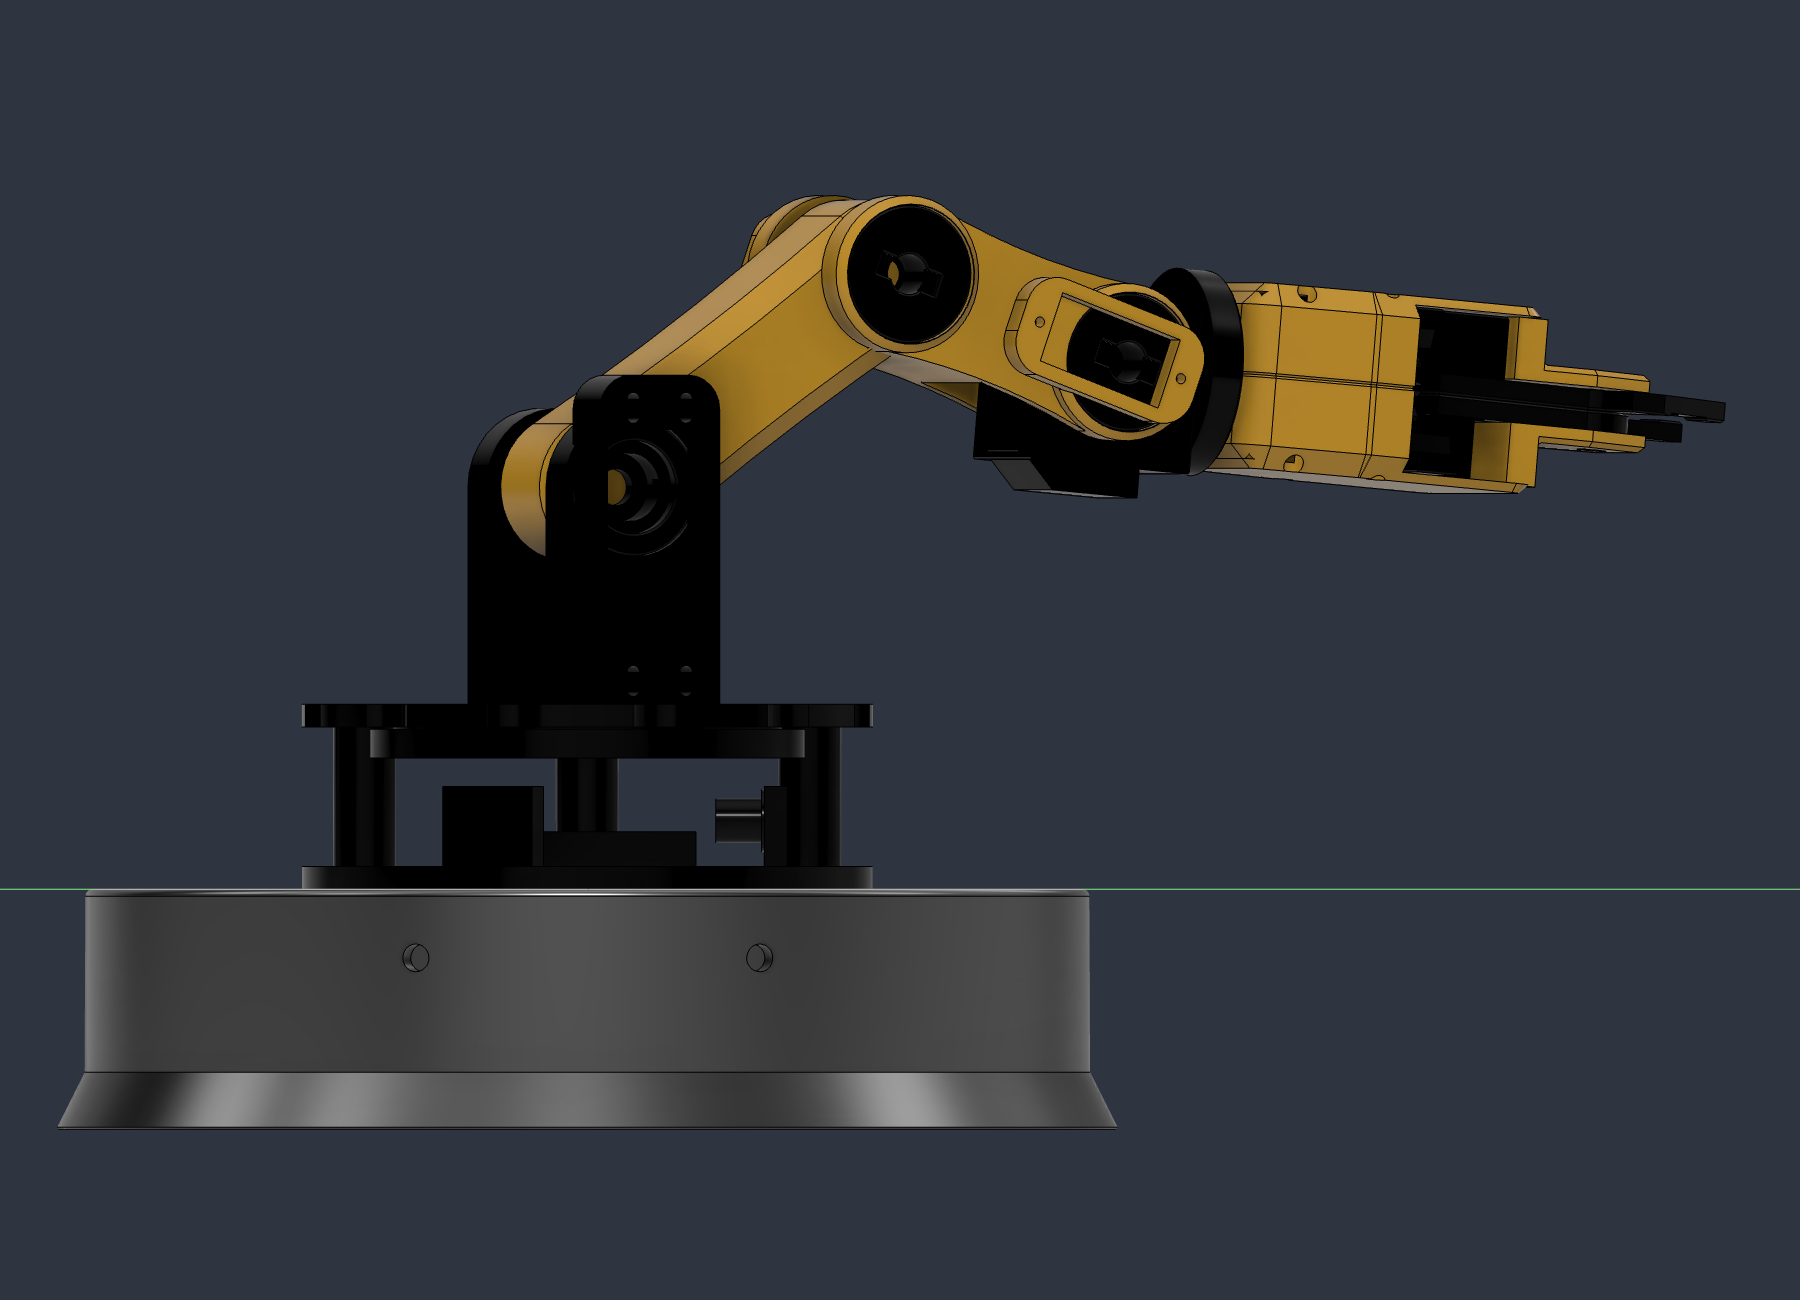
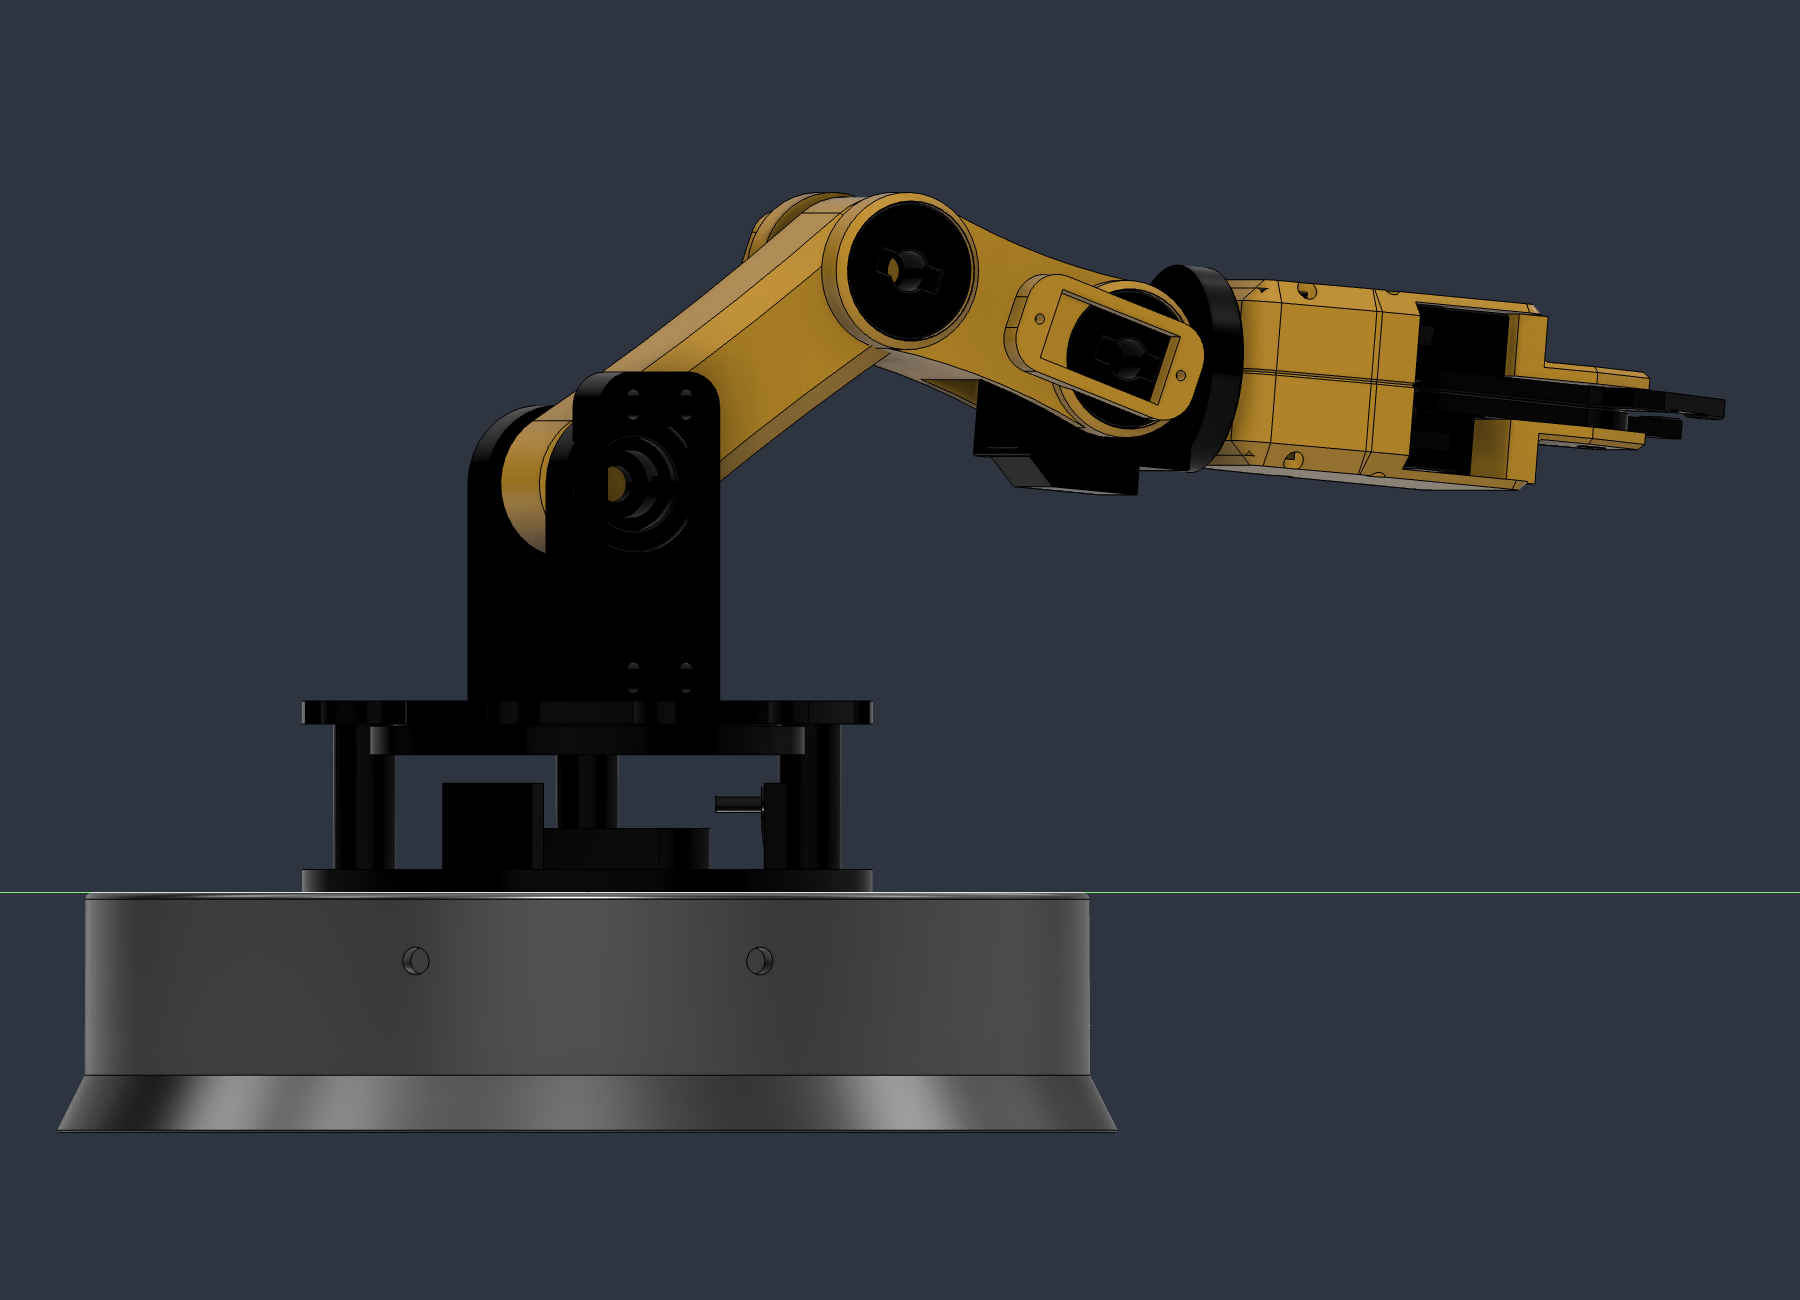
chore(robotarm): re-render the arm and J1, update the volume ledger
_check_ledger PASS: 14 parts, zero drift. The only two deltas were the two
intended changes - turntable_stator -2160.4 (the roller reliefs) and base_lid
-302.6 (the enlarged opening) - so _volumes.json is updated to match and
nothing else moved.

_preview_j1's STACK carried the rotor's z offset as the literal 70.4. It is
71.5 now that tt_axle_z moved, so a literal would have rendered the rotor
1.1 mm low, through its own retainer ring, and looked entirely plausible. All
five offsets are derived from live parameters via _dz(). PLAYBOOK, 'a copy of
another part's number with a comment saying MUST TRACK'.

Whole arm at J1 25 / J2 35 / J3 -55 / J4 15, blades 12 open: reach 229 mm from
the yaw axis, height 169 mm.

diff --git a/models/robotarm/_preview_j1.py b/models/robotarm/_preview_j1.py
@@ -42,13 +42,20 @@ import adsk.fusion
 REPO = os.path.expanduser('~/Documents/GitHub/cad-pipeline')
 LEGACY = os.path.join(REPO, 'legacy', 'exports', 'robotarm')
 
-# name, z offset to bring it into the stator's frame, explode rank
+# name, z offset to bring it into the stator's frame, explode rank.
+#
+# THE ROTOR'S OFFSET IS DERIVED, NOT TYPED. It was 70.4 here as a literal and
+# it is 71.5 now, because tt_axle_z moved 12.0 -> 13.1 when _check_j1 found the
+# rollers buried in the base plate. A literal would have rendered the rotor
+# 1.1 mm low - through its own ring - and looked entirely plausible. None is
+# a number any more: `_dz(name)` reads the live parameters. PLAYBOOK, "a copy
+# of another part's number with a comment saying MUST TRACK".
 STACK = [
-    ('base_platter', -42.0, 0),
-    ('base_lid', -3.0, 1),  # ours, built above
-    ('turntable_stator', 0.0, 2),
-    ('shoulder_bracket', 70.4, 3),
-    ('turntable_ring', 0.0, 4),
+    ('base_platter', None, 0),
+    ('base_lid', None, 1),  # ours, built above
+    ('turntable_stator', None, 2),
+    ('shoulder_bracket', None, 3),
+    ('turntable_ring', None, 4),
 ]
 EXPLODE_MM = 38.0
 
@@ -94,6 +101,26 @@ def run(_context: str):
         occ = imp.importToTarget2(imp.createSTEPImportOptions(path), root)
         occ.item(0).component.name = 'legacy_' + step.split('_v1')[0]
 
+    ups = des.userParameters
+
+    def _gv(name):
+        p = ups.itemByName(name)
+        assert p is not None, 'missing user parameter ' + name
+        return p.value * 10.0
+
+    def _dz(name):
+        """Where this part sits in the STATOR's frame, from live parameters."""
+        if name == 'base_platter':
+            return -_gv('ts_platter_rim') if ups.itemByName(
+                'ts_platter_rim') else -42.0
+        if name == 'base_lid':
+            return -_gv('bl_t')
+        if name == 'shoulder_bracket':
+            # race face onto the roller crowns; see _check_j1's docstring
+            return (_gv('tt_race_z') + _gv('sb_stand_h')
+                    + _gv('tt_boss_h') + _gv('tt_disc_t'))
+        return 0.0
+
     def find(name):
         for i in range(root.occurrences.count):
             o = root.occurrences.item(i)
@@ -127,11 +154,12 @@ def run(_context: str):
             break
 
     for exploded in (False, True):
-        for name, dz, rank in STACK:
+        for name, _unused, rank in STACK:
             occ = find(name)
             if occ is None:
                 print('  MISSING %s' % name)
                 continue
+            dz = _dz(name)
             m = adsk.core.Matrix3D.create()
             lift = dz + (rank * EXPLODE_MM if exploded else 0.0)
             m.translation = adsk.core.Vector3D.create(0, 0, lift / 10.0)
@@ -152,10 +180,11 @@ def run(_context: str):
 
     print('')
     print('J1 STACK, z = platter rim top:')
-    for name, dz, rank in STACK:
+    for name, _unused, rank in STACK:
         occ = find(name)
         if occ is None or not occ.component.bRepBodies.count:
             continue
+        dz = _dz(name)
         bb = occ.component.bRepBodies.item(0).boundingBox
-        print('  %-20s z %7.2f .. %7.2f' % (name, bb.minPoint.z * 10 + dz,
-                                            bb.maxPoint.z * 10 + dz))
+        print('  %-20s z %7.2f .. %7.2f  (dz %+7.2f, derived)'
+              % (name, bb.minPoint.z * 10 + dz, bb.maxPoint.z * 10 + dz, dz))
